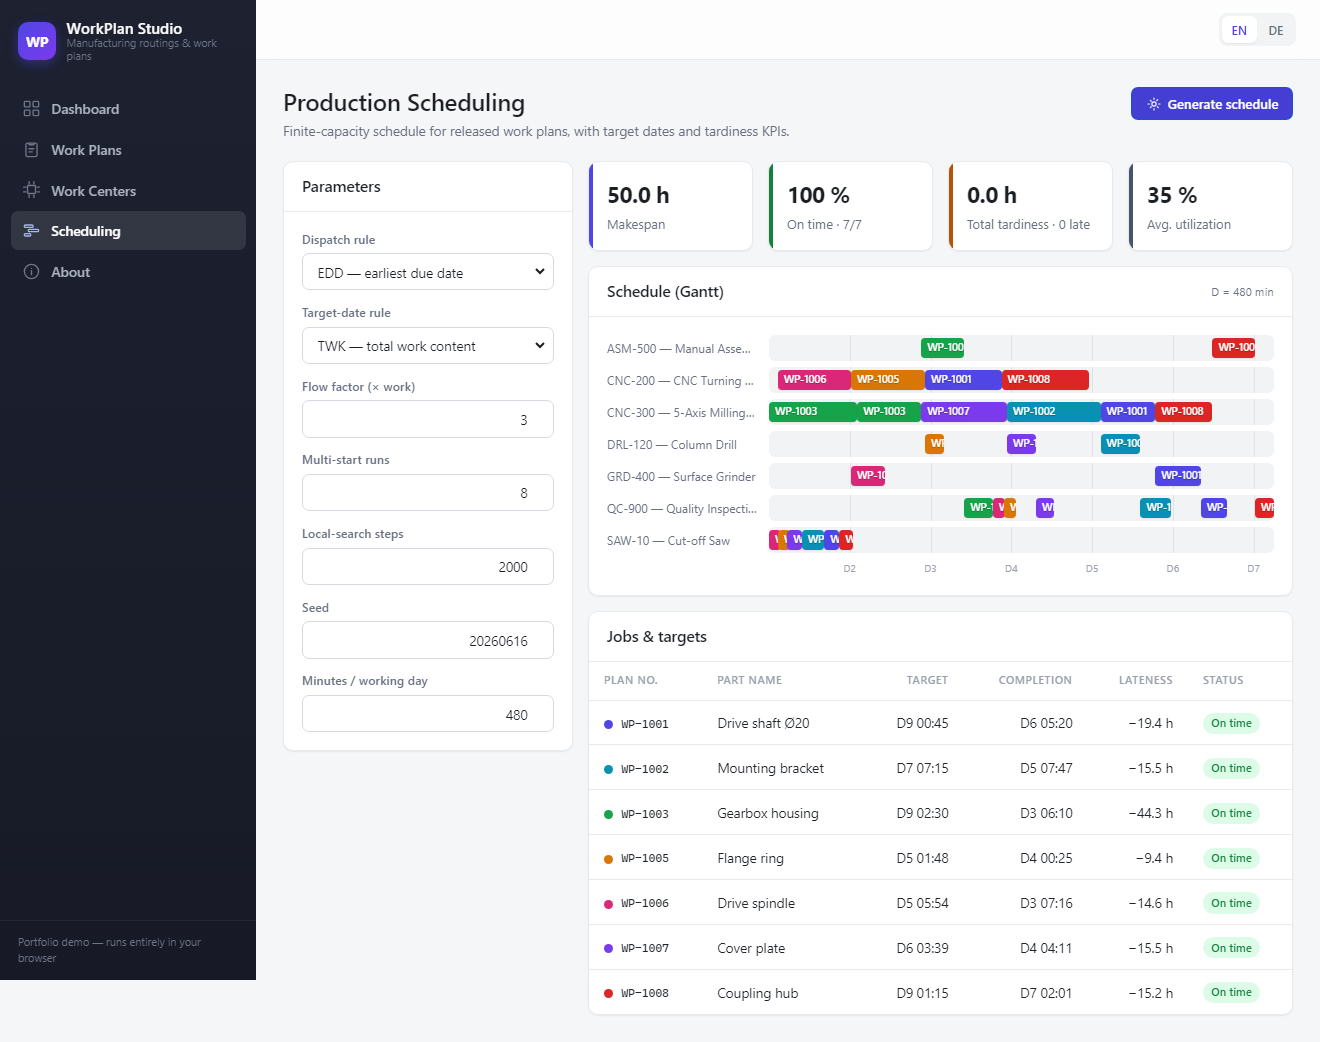
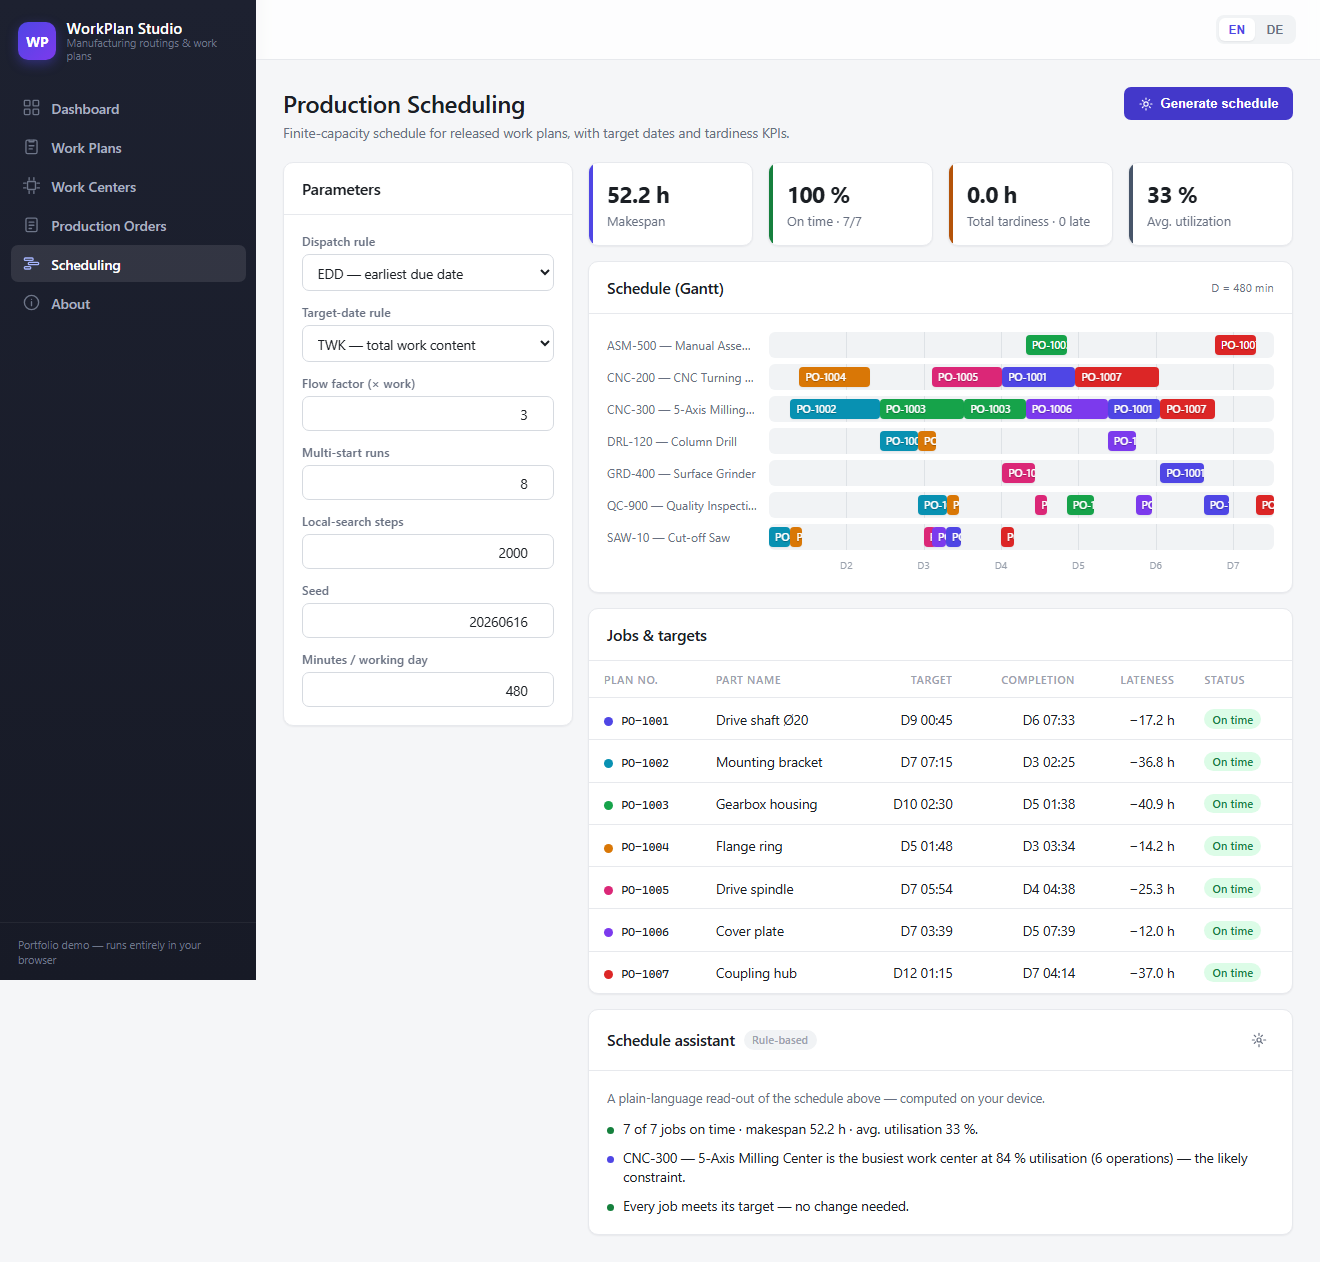
Fix the E2E suite for real release dates, and record what they changed
Two E2E tests failed in CI and passed locally. The local runs were hitting a
stale dev server I had left running - a reminder that "works on my machine" is
sometimes literally a different machine. Reproduced against a fresh build, both
failures were real consequences of this branch.

Tightening_the_targets: it turned the flow factor, which only exists under TWK
targets. Explicit is now the default, so the control at that position was the
constant-allowance field and the jobs never went late. The test now selects the
target rule whose knob it is about to turn, instead of inheriting a default.

A_degenerate_rule_combination_is_explained_on_the_page: removed, because what it
asserted is no longer true of the sample data - and that is the interesting
part.

Every dispatch-rule equivalence assumes a common release at second 0. That held
while the app scheduled work plans, which carry no release date. Production
orders carry real ones, and with staggered releases `due/P = release/P + f` is
no longer constant, so CR stops sorting like FIFO. On the current sample data no
collapse fires at all.

So fixing the domain model dissolved the degeneracy that the reporting was built
to explain. The reporting still earns its place: it is computed from the orders
rather than from a table, so it reports nothing when nothing collapses and
starts again the moment orders share a release date. Had it been a hard-coded
table it would now be confidently wrong.
[…]

diff --git a/tests/WorkPlanStudio.E2E/ScheduleE2ETests.cs b/tests/WorkPlanStudio.E2E/ScheduleE2ETests.cs
@@ -43,6 +43,11 @@ public sealed class ScheduleE2ETests
         var (context, schedule) = await OpenAsync();
         await using var _ = context;
 
+        // The flow factor belongs to the TWK target rule. Orders now carry real
+        // customer due dates and Explicit is the default, so this test has to
+        // select the rule whose knob it is about to turn.
+        await schedule.SetDueRuleAsync("TotalWorkContent");
+
         // Loose targets (flow factor 3.0) → a healthy, all-on-time schedule.
         await schedule.SetFlowFactorAsync("3");
         await schedule.GenerateAsync();
@@ -103,24 +108,6 @@ public sealed class ScheduleE2ETests
         await schedule.GenerateAsync();
 
         Assert.Equal(fromEdd, await schedule.MakespanTextAsync());
-    }
-
-    /// <summary>
-    /// Critical ratio on total-work-content targets is a constant, so it sorts
-    /// exactly like FIFO. The page has to say so rather than silently returning
-    /// an unchanged schedule.
-    /// </summary>
-    [Fact]
-    public async Task A_degenerate_rule_combination_is_explained_on_the_page()
-    {
-        var (context, schedule) = await OpenAsync();
-        await using var _ = context;
-
-        await schedule.SetDispatchRuleAsync("CriticalRatio");
-        await schedule.GenerateAsync();
-
-        await schedule.RuleEquivalenceHint.WaitForAsync(new() { Timeout = 15_000 });
-        Assert.Contains("FIFO", await schedule.RuleEquivalenceHint.InnerTextAsync(), StringComparison.Ordinal);
     }
 
     [Fact]

diff --git a/docs/INTERVIEW.md b/docs/INTERVIEW.md
@@ -168,7 +168,16 @@ With all jobs released at *t* = 0 and *P* = total processing time:
 | **CON** | `due = c` | all targets equal, so **EDD ≡ FIFO**; `CR = c/P` decreases in *P*, so **CR ≡ LPT** |
 | **NOP** | `due = t · n` | keyed on operation count, the only rule that decouples all six |
 
-So on the default targets, six rules produce **four** distinct schedules.
+So on *derived* targets, six rules produce **four** distinct schedules.
+
+There is a twist worth having ready. All of that assumes every job is released at
+second 0 — true while the app scheduled work plans, which carry no release date.
+Production orders carry real ones, and a staggered release breaks the identities:
+`due/P = release/P + f` is no longer constant, so CR stops sorting like FIFO. On
+the current sample data **no collapse occurs at all**. Fixing the domain model
+dissolved the degeneracy that the reporting was built to explain — and the
+reporting still earns its place, because the collapse returns the moment orders
+share a release date.
 
 Three options were on the table: delete the redundant rules (wrong — they're only
 redundant under *particular* target rules), say nothing (the status quo, and
@@ -427,7 +436,7 @@ approached it, so the knob was decorative.
 | --- | --- |
 | Engine library | ~1 340 lines |
 | Blazor app | ~3 950 lines |
-| Tests | 212 tests (135 engine / 65 web / 12 E2E) |
+| Tests | 211 tests (135 engine / 65 web / 11 E2E) |
 | Engine coverage | 96.4 % line, 89.1 % branch |
 | Search gap to optimum | 0.2 % mean, 19/20 solved exactly |
 | Schedule runtime | ~10 ms at 8 jobs, ~533 ms at 100 |

diff --git a/README.md b/README.md
@@ -122,7 +122,7 @@ The repository applies the following engineering practices:
 - **Strict builds** — nullable reference types, .NET analyzers and **warnings treated as errors** (`Directory.Build.props`).
 - **Central Package Management** — every NuGet version in one [`Directory.Packages.props`](Directory.Packages.props).
 - **Consistent style** — a comprehensive [`.editorconfig`](.editorconfig) and line-ending normalisation via [`.gitattributes`](.gitattributes).
-- **Layered tests + coverage** — 212 tests across three test projects, including real-SQLite persistence, property-based invariants, brute-force optimality checks, adversarial algorithm cases, accessibility semantics, localization parity, components, browser reload/reset and mobile flows; the engine measures 96.37 % line and 89.05 % branch coverage.
+- **Layered tests + coverage** — 211 tests across three test projects, including real-SQLite persistence, property-based invariants, brute-force optimality checks, adversarial algorithm cases, accessibility semantics, localization parity, components, browser reload/reset and mobile flows; the engine measures 96.37 % line and 89.05 % branch coverage.
 - **Architecture enforced by a test** — the engine cannot accrue a Blazor / EF / JS dependency.
 - **Decisions recorded** — see the [Architecture Decision Records](docs/adr).
 - **Dependency hygiene** — [Dependabot](.github/dependabot.yml) keeps NuGet and GitHub Actions current.

diff --git a/docs/SCHEDULING.md b/docs/SCHEDULING.md
@@ -140,6 +140,21 @@ themselves (never from a hard-coded table, which could drift from the code) and
 the page shows it beneath the selector. `RuleEquivalenceTests` pins every
 identity above; see [ADR 0009](adr/0009-report-rule-equivalences.md).
 
+### The collapse depends on equal release times
+
+Everything above assumes every job is released at second 0, which was true while
+the app scheduled work plans — they carried no release date. Production orders
+carry real ones, and a staggered release breaks most of the identities: with
+`due = release + f·P`, the critical ratio `due/P = release/P + f` is no longer
+constant, so CR stops sorting like FIFO.
+
+On the current sample data no collapse occurs at all. That is a result, not an
+omission: giving orders real release dates is what made the six dispatch rules
+genuinely six rules. The reporting stays because the collapse returns the moment
+orders share a release date — which is exactly why it is computed from the
+orders rather than from the table above.
+
+
 ## 6. Multi-start + local search
 
 A single greedy pass is rarely optimal, so `SchedulingEngine` wraps the dispatcher

diff --git a/docs/adr/0009-report-rule-equivalences.md b/docs/adr/0009-report-rule-equivalences.md
@@ -50,3 +50,16 @@ changed.
   `k` = 6 rules. Negligible next to the search, but not free.
 - ➖ Only detects *exact* order equality. Two rules that differ on one job pair
   but produce the same final schedule are not reported.
+
+## Postscript (2026-08-16)
+
+[ADR 0011](0011-production-orders-own-routing-snapshots.md) gave jobs real
+release dates. Every identity in the table above assumes a common release at
+second 0, so with staggered releases most of them dissolve — on the current
+sample data none of them fires.
+
+This vindicates the implementation choice rather than undermining it. Had the
+equivalences been a hard-coded table, they would now be confidently wrong.
+Computing them from the orders means the feature simply reports nothing when
+nothing collapses, and starts reporting again the moment a set of orders shares
+a release date.

diff --git a/docs/TESTING.md b/docs/TESTING.md
@@ -13,7 +13,7 @@ browser and no `wasm-tools` workload.
 
 ```mermaid
 graph TD
-    E2E["🌐 <b>E2E</b> — Playwright · 10 tests<br/>real Chromium, persistence reload/reset, keyboard, mobile and localization"]
+    E2E["🌐 <b>E2E</b> — Playwright · 11 tests<br/>real Chromium, persistence reload/reset, keyboard, mobile and localization"]
     WEB["🧩 <b>Data + Boundary + Component</b> — xUnit/bUnit · 65 tests<br/>real SQLite, validation, mapper, localization, pages &amp; assistant"]
     UNIT["⚙ <b>Unit + Property + Optimality</b> — xUnit/CsCheck · 135 tests<br/>the engine, limits, invariants, brute-force optimality &amp; design rules"]
 
